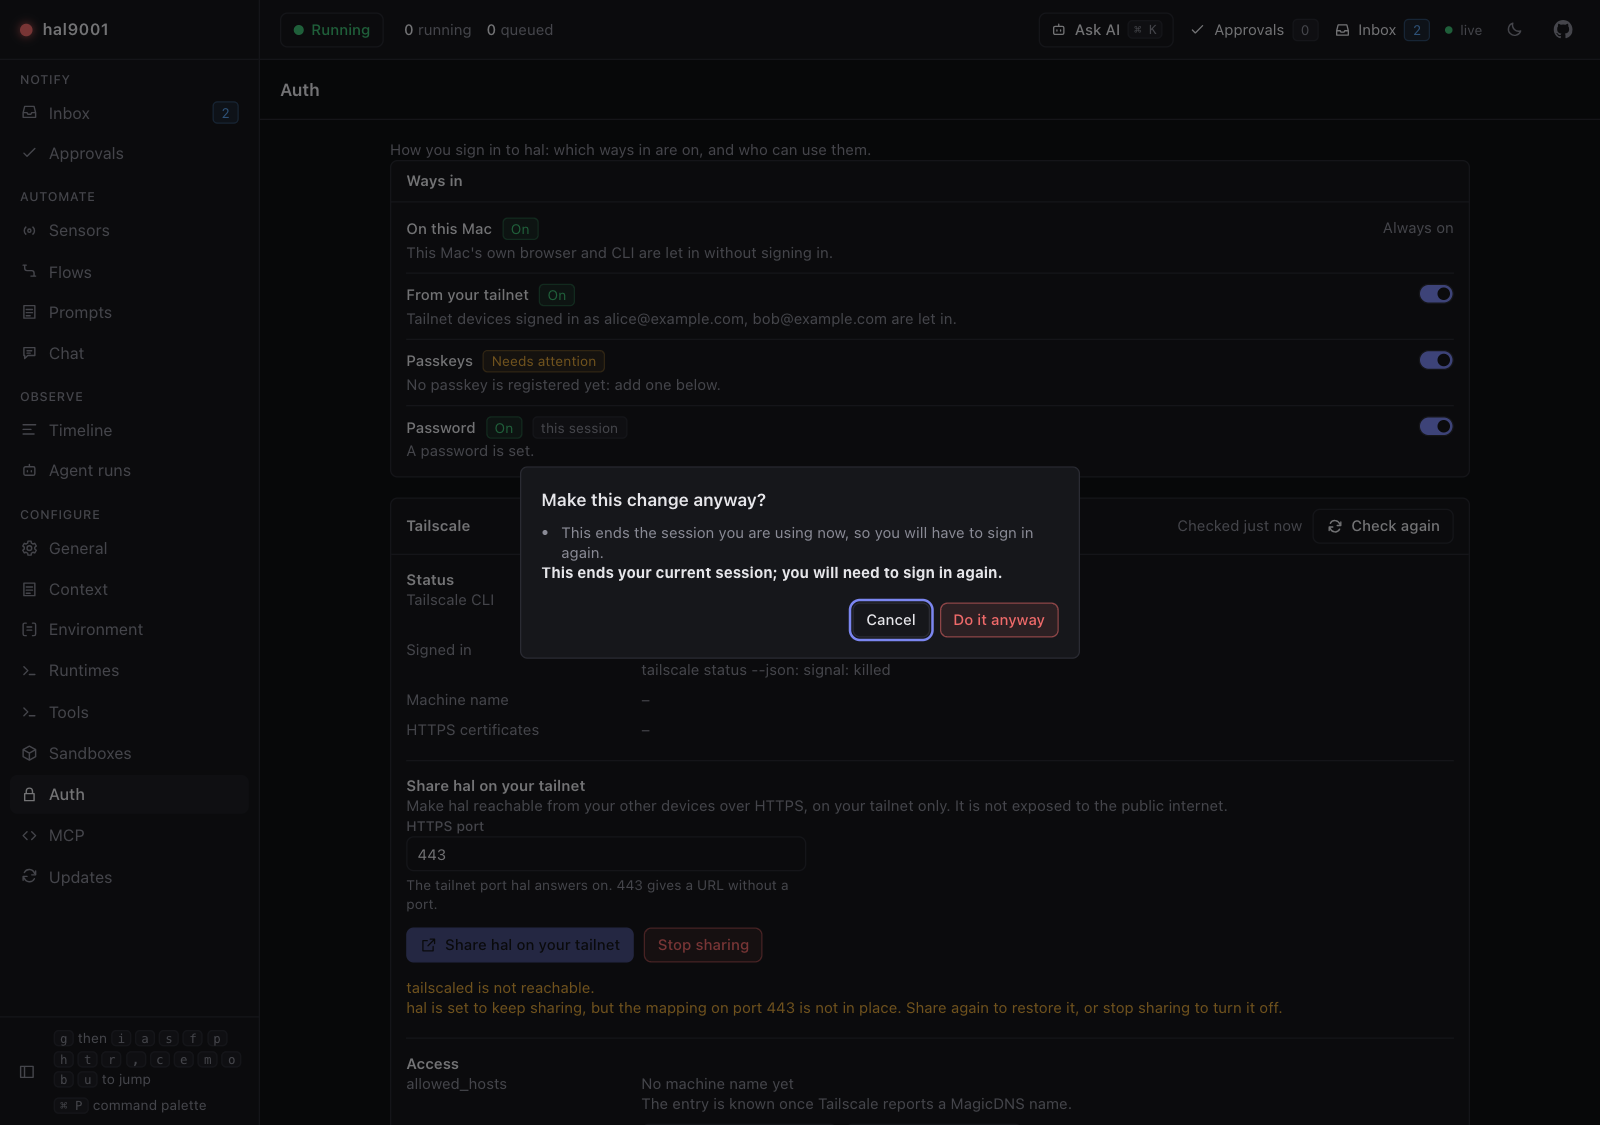
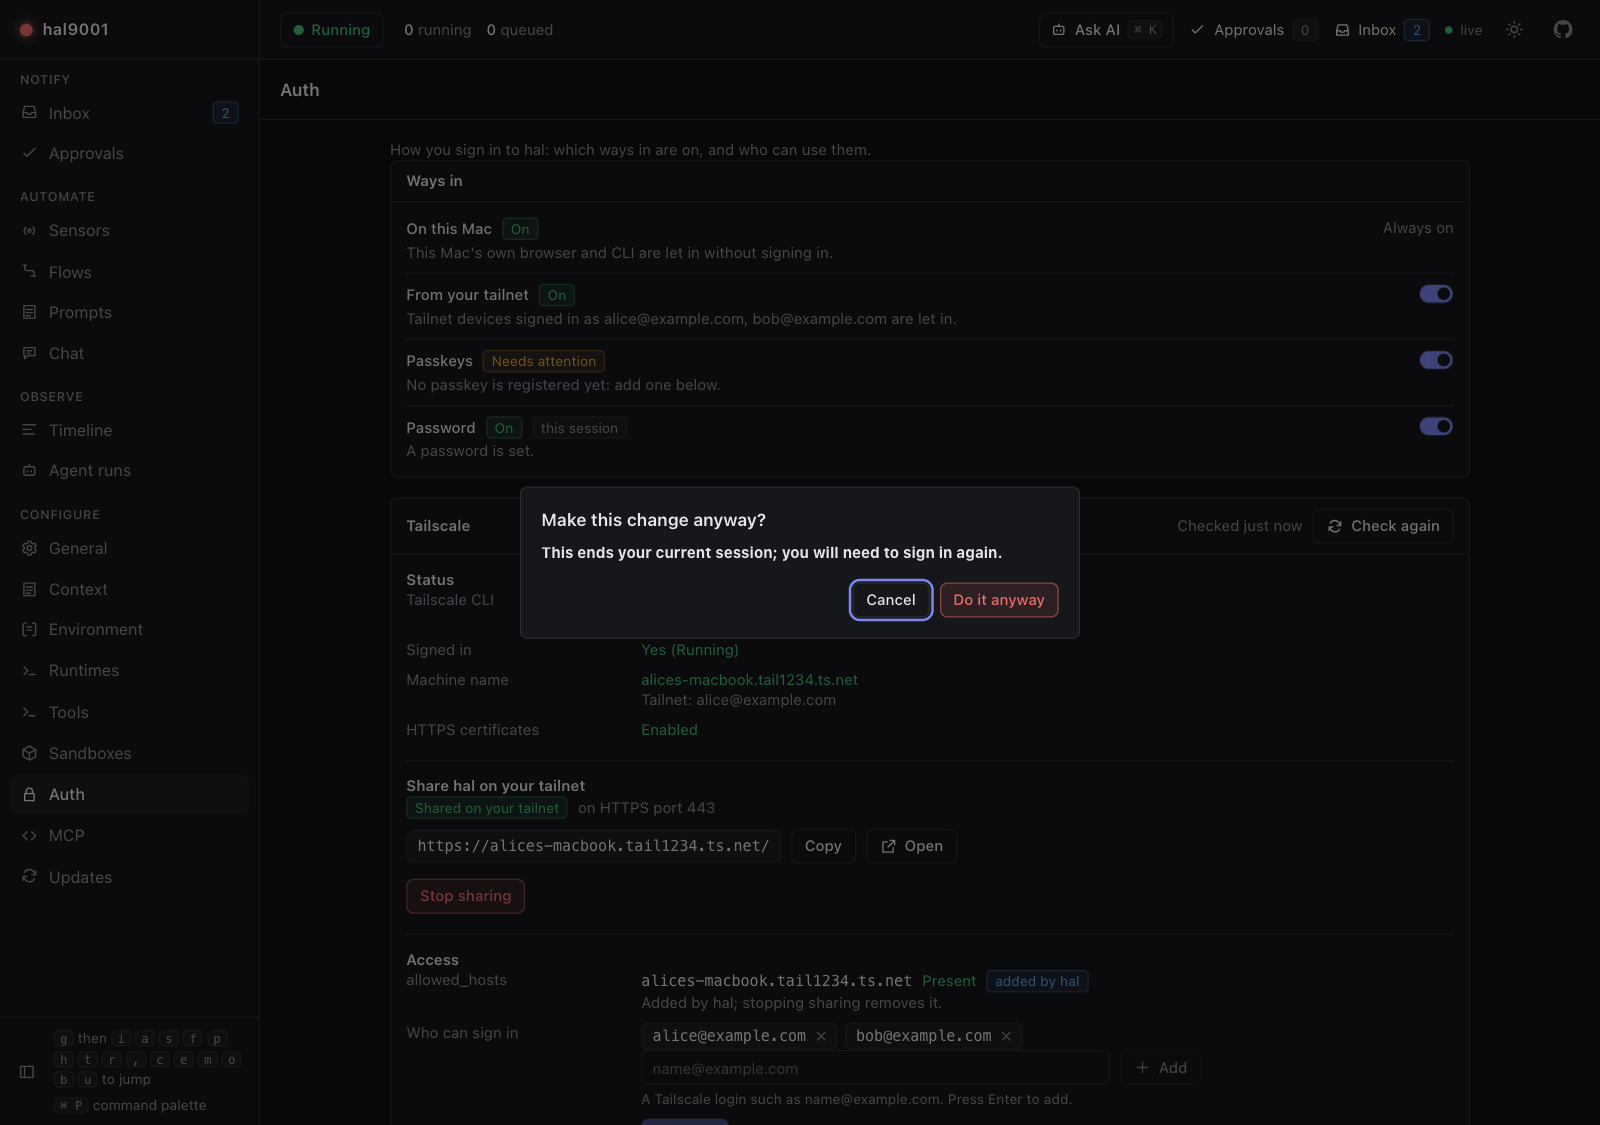
Auth confirm dialog: show each reason and the ends-session warning once; recapture confirm screenshots
The server's 'ends the session' reason repeated the dialog's own warning.
confirmReasons drops reasons that only say the session ends and you sign in
again when the warning is shown, and removes repeats. The confirm shots are
retaken with the Tailscale stub working.

diff --git a/web/src/pages/settings/ConfirmAuthDialog.tsx b/web/src/pages/settings/ConfirmAuthDialog.tsx
@@ -1,5 +1,9 @@
 import { ConfirmDialog } from "../../components/ConfirmDialog";
-import type { ConfirmationRequired } from "./authProblem";
+import {
+  confirmReasons,
+  ENDS_SESSION_WARNING,
+  type ConfirmationRequired,
+} from "./authProblem";
 
 /** Shown when the server answers 409 `confirmation-required`: why, and "Do it anyway" repeats the change with `confirm: true`. */
 export function ConfirmAuthDialog({
@@ -26,24 +30,26 @@ export function ConfirmAuthDialog({
     >
       {confirmation && (
         <div className="space-y-2">
-          {confirmation.reasons.length > 0 ? (
+          {confirmReasons(confirmation).length > 0 ? (
             <ul
               className="m-0 list-disc space-y-1 pl-4"
               data-testid="auth-confirm-reasons"
             >
-              {confirmation.reasons.map((r) => (
+              {confirmReasons(confirmation).map((r) => (
                 <li key={r}>{r}</li>
               ))}
             </ul>
           ) : (
-            <p className="m-0">The server asks you to confirm this change.</p>
+            !confirmation.endsSession && (
+              <p className="m-0">The server asks you to confirm this change.</p>
+            )
           )}
           {confirmation.endsSession && (
             <p
               className="m-0 font-bold text-fg"
               data-testid="auth-confirm-ends-session"
             >
-              This ends your current session; you will need to sign in again.
+              {ENDS_SESSION_WARNING}
             </p>
           )}
         </div>

diff --git a/web/src/pages/settings/authProblem.test.ts b/web/src/pages/settings/authProblem.test.ts
@@ -2,6 +2,7 @@ import { describe, expect, it } from "vitest";
 import { ApiError, type Problem } from "../../api/client";
 import {
   changeErrorLines,
+  confirmReasons,
   diagnosticsByPath,
   parseConfirmation,
   parseRateLimit,
@@ -162,5 +163,23 @@ describe("changeErrorLines shownElsewhere", () => {
     });
     expect(changeErrorLines(e, ["current_password"])).toEqual([]);
     expect(changeErrorLines(e)).toEqual(["current_password: wrong password"]);
+  });
+});
+
+describe("confirmReasons", () => {
+  const ends =
+    "This ends the session you are using now, so you will have to sign in again.";
+  it("drops the reason that restates the ends-session warning, once the warning is shown", () => {
+    expect(
+      confirmReasons({
+        reasons: [ends, "Password sign-in will be off."],
+        endsSession: true,
+      }),
+    ).toEqual(["Password sign-in will be off."]);
+  });
+  it("keeps it when the change does not end the session, and drops repeats", () => {
+    expect(
+      confirmReasons({ reasons: [ends, ends], endsSession: false }),
+    ).toEqual([ends]);
   });
 });

diff --git a/web/src/pages/settings/authProblem.ts b/web/src/pages/settings/authProblem.ts
@@ -26,6 +26,26 @@ export function parseConfirmation(e: unknown): ConfirmationRequired | null {
   };
 }
 
+/** The sentence the dialog shows once when the change ends this session. */
+export const ENDS_SESSION_WARNING =
+  "This ends your current session; you will need to sign in again.";
+
+/**
+ * What the confirm dialog lists: the server's reasons, minus the ones that only say the session ends and you sign in
+ * again (the warning says that once, when `endsSession` is set), and without repeats.
+ */
+export function confirmReasons(c: ConfirmationRequired): string[] {
+  const saysSessionEnds = (r: string) =>
+    /\bsession\b/i.test(r) && /\bsign in\b/i.test(r);
+  const seen = new Set<string>();
+  return c.reasons.filter((r) => {
+    const key = r.trim().toLowerCase();
+    if (seen.has(key) || (c.endsSession && saysSessionEnds(r))) return false;
+    seen.add(key);
+    return true;
+  });
+}
+
 /** The `Retry-After` of a 429 `rate-limited`, in seconds; null for any other error. */
 export function parseRateLimit(
   e: unknown,
